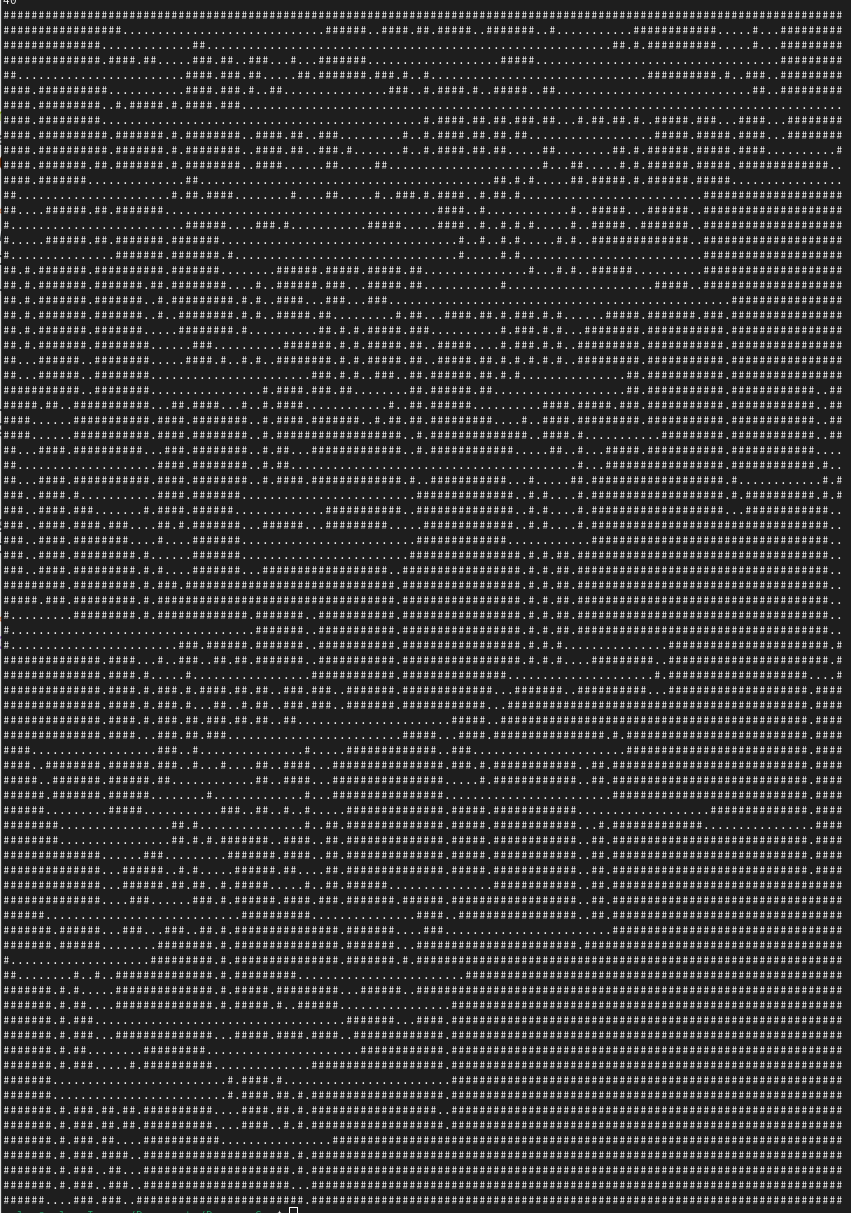
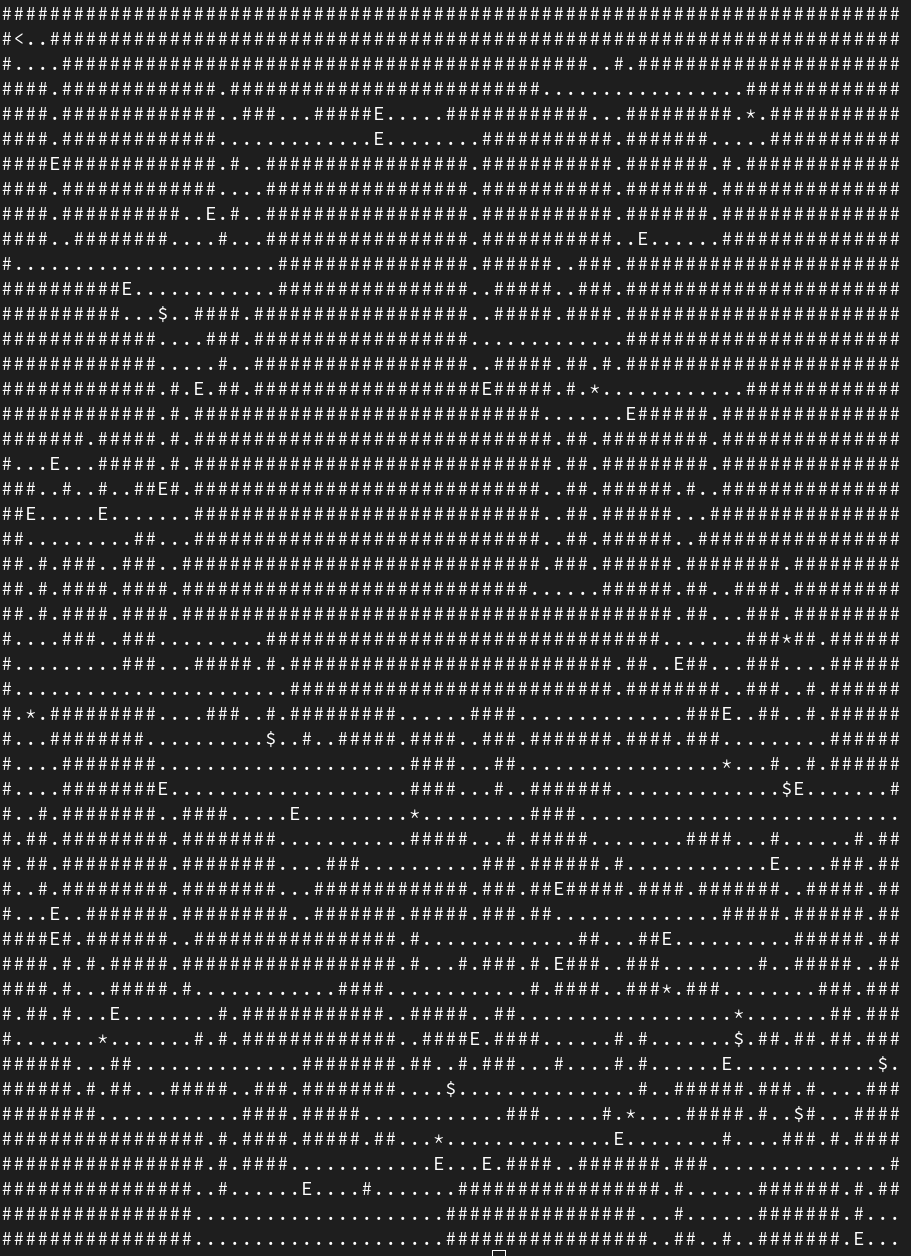
Update generator

diff --git a/main.c b/main.c
@@ -10,20 +10,24 @@ signed main(void) {
 
 	for (int i = 0; i < height * width; i++) map[i] = '#';
 	int px = rand() % width, py = rand() % height, floor_tiles = 0, tunnel_length = 0, tunnel_dir = 0;
+	map[py * width + px] = '<';
 	while ((width * height)/3 >= floor_tiles) {
 		switch (tunnel_length ? tunnel_dir : rand() % 5) {
 		case 0: px + 1 >= width ? px-- : px++; break;
 		case 1: px - 1 <= 0 ? px++ : px--; break;
 		case 2: py + 1 >= height ? py-- : py++; break;
 		case 3: py - 1 <= 0 ? py++ : py--; break;
-		case 4: tunnel_dir = rand() % 4; 
-			tunnel_length = rand()%((tunnel_dir <= 1 ? width : height) / 5); 
-			break;
+		case 4: tunnel_dir = rand() % 4; tunnel_length = rand()%((tunnel_dir <= 1 ? width : height) / 5); break;
 		}
 
 		if (tunnel_length) tunnel_length--;
-		if (map[py * width + px] == '#') map[py * width + px] = '.', floor_tiles++;
-	};
+		if (map[py * width + px] == '#') {
+			if (rand()%25) map[py * width + px] = '.';
+			else if (rand()%3) map[py * width + px] = 'E';
+			else map[py * width + px] = (rand() % 2 ? '*' : '$');
+			floor_tiles++;
+		}
+	}; 
 
 	for (int y = 0; y < height; y++) { for (int x = 0; x < width; x++) putchar(map[y * width + x]); putchar('\n'); };
 	free(map); return 0;

diff --git a/README.md b/README.md
@@ -7,6 +7,12 @@
 The project has only one file, so you can build it with a single command:   
 ```clang -std=c99 -Wall -Wextra -pedantic main.c -o generator```
 
+#### Designation
+`<` - exit
+`E` - enemy
+`$` - money
+`*` - chest
+
 #### Input data
 Before running the generation, you need to provide the program `scale` argument.   
 For example:
@@ -22,4 +28,4 @@ Scale = 25
 - [x] Added the input for scale. 
 - [x] Replaced stack with the heap.
 - [x] Added corridors and rooms.
-- [ ] Add ```<; >; $; *;``` tiles.
+- [x] Add ```<; E; $; *;``` tiles.
